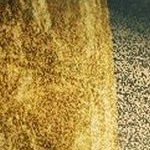
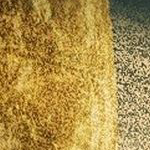
sooo close

diff --git a/generate.go b/generate.go
@@ -12,7 +12,7 @@ func main() {
 		fmt.Printf("could not remove\n")
 		return
 	}
-	cmd = exec.Command("ffmpeg", "-i", "wallpaper2.png", "-vf", "crop=150:150:160:260", "0_0.png")
+	cmd = exec.Command("ffmpeg", "-i", "wallpaper2.png", "-vf", "crop=150:150:160:270", "0_0.png")
 	var stderr bytes.Buffer
 	cmd.Stderr = &stderr
 	err := cmd.Run()
